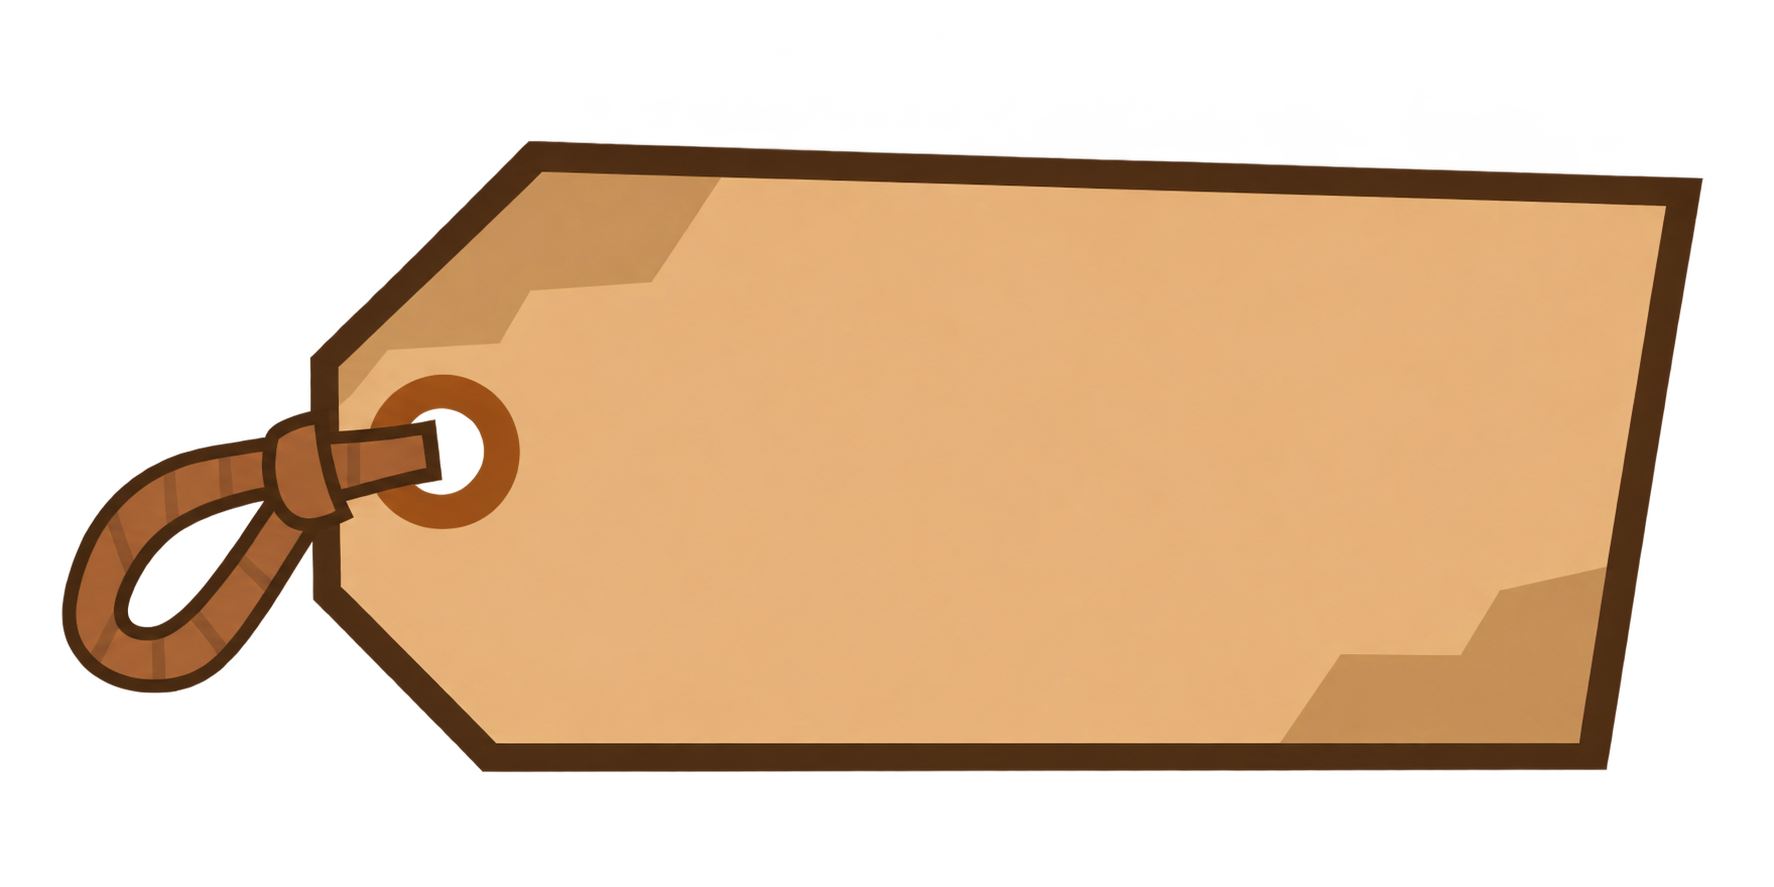
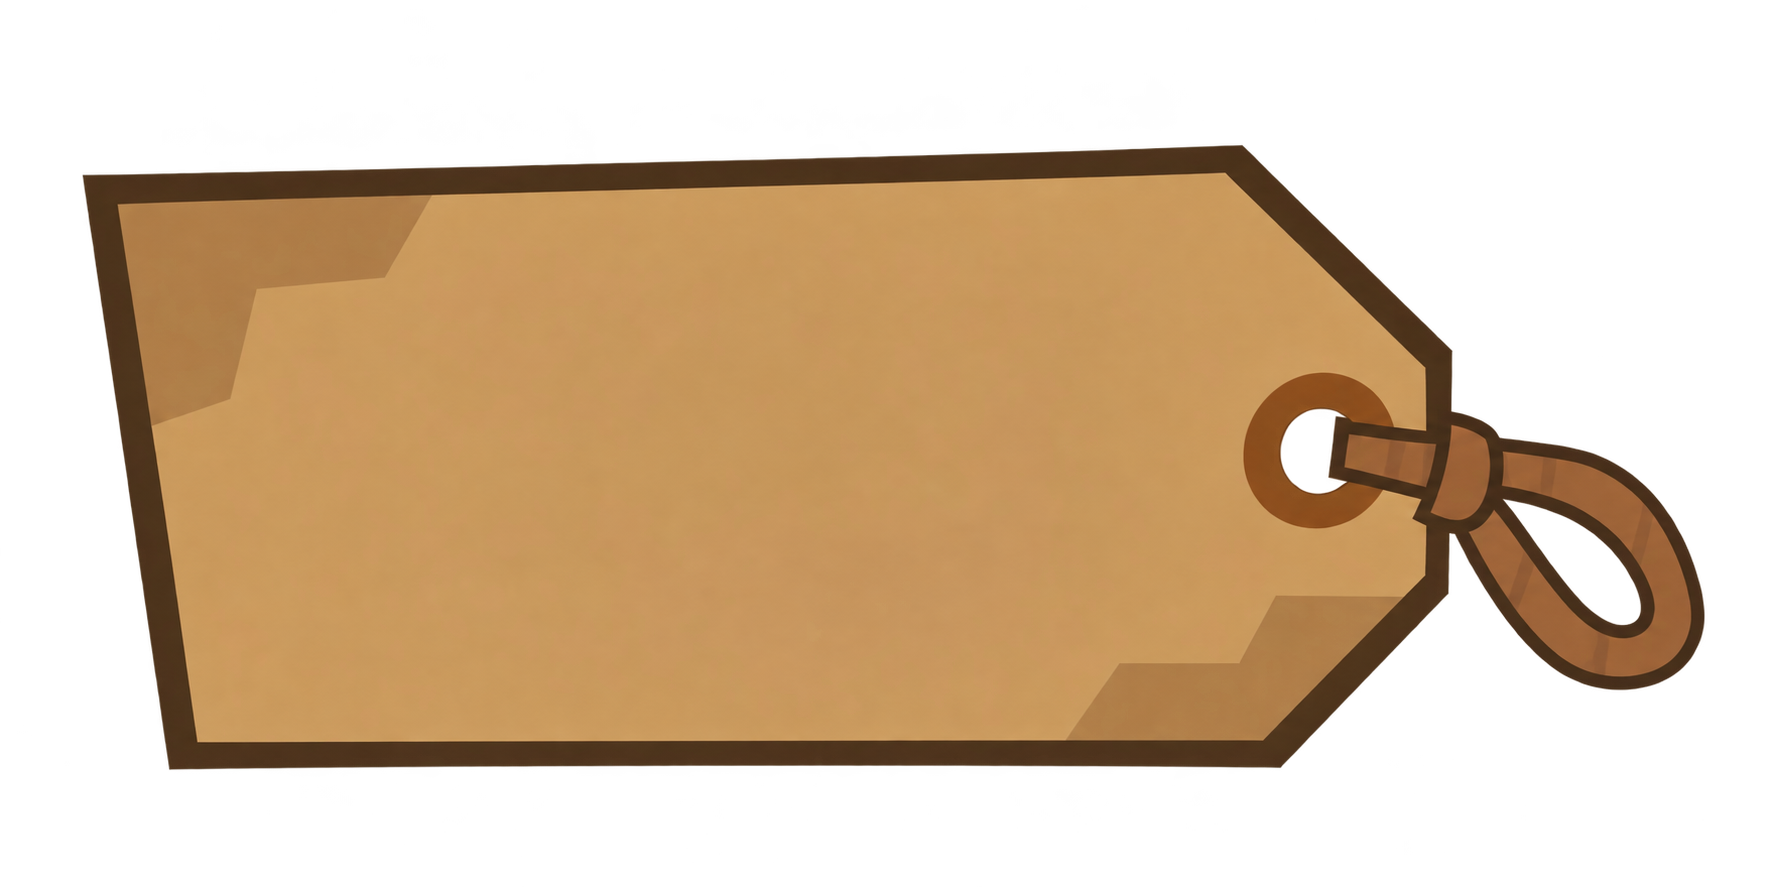
bug fixes

diff --git a/src/app/admin/IslandStage.tsx b/src/app/admin/IslandStage.tsx
@@ -10,7 +10,7 @@
 import { useCallback, useEffect, useMemo, useRef, useState } from "react";
 import Image from "next/image";
 import type { AdminPlayer } from "@/lib/types";
-import { displayName } from "@/lib/names";
+import { islandName } from "./islandNames";
 import { copyElementAsImage, downloadElementAsPng } from "@/lib/copy-image";
 import Avatar from "@/components/Avatar";
 import FinalSequenceOverlay from "./FinalSequenceOverlay";
@@ -129,7 +129,7 @@ export default function IslandStage({ players, outIds, atRiskIds, safeIds, lates
     participants: onIsland.map((p) => p.id).filter((id) => seatedSet.has(id)),
     atRisk: atRiskIds,
     safe,
-    nameOf: (id) => (byId[id] ? displayName(byId[id]) : "A removed player"),
+    nameOf: (id) => (byId[id] ? islandName(byId[id]) : "A removed player"),
   };
   const giveLatest = useRef(give);
   giveLatest.current = give;
@@ -249,9 +249,9 @@ export default function IslandStage({ players, outIds, atRiskIds, safeIds, lates
               onMouseEnter={() => !capturing && !running && setHover(id)} onFocus={() => !running && setHover(id)}
               onMouseLeave={() => setHover((h) => (h === id ? null : h))} onBlur={() => setHover((h) => (h === id ? null : h))}
               onClick={() => toggle(id)} aria-pressed={isSafe} aria-disabled={out || running}
-              aria-label={`${displayName(p)}${out ? ", out" : isSafe ? ", safe" : ""}${out ? "" : isSafe ? ". Click to take back the marshmallow" : ". Click to toss a marshmallow"}`}>
-              <span className="stage-name">{displayName(p)}</span>
-              <Avatar src={p.discord_avatar_url} name={displayName(p)} size={128} />
+              aria-label={`${islandName(p)}${out ? ", out" : isSafe ? ", safe" : ""}${out ? "" : isSafe ? ". Click to take back the marshmallow" : ". Click to toss a marshmallow"}`}>
+              <span className="stage-name">{islandName(p)}</span>
+              <Avatar src={p.discord_avatar_url} name={islandName(p)} size={128} />
               {isSafe && (
                 <Image src={MARSHMALLOW} alt="" width={64} height={68}
                   className={`stage-mallow${tossing.has(id) ? " toss" : ""}`}

diff --git a/src/app/admin/IslandTab.tsx b/src/app/admin/IslandTab.tsx
@@ -7,7 +7,7 @@
 import { useMemo, useRef, useState } from "react";
 import { useRouter } from "next/navigation";
 import type { AdminPlayer, IslandState } from "@/lib/types";
-import { displayName } from "@/lib/names";
+import { islandName } from "./islandNames";
 import { islandMessage } from "@/lib/candy";
 import Avatar from "@/components/Avatar";
 import IslandStage from "./IslandStage";
@@ -44,7 +44,7 @@ export default function IslandTab({ players, island, setFlash }: {
   const latest = island.rounds[island.rounds.length - 1];
   const n = Number(remaining);
   const nOk = Number.isInteger(n) && n >= 1 && n < onIsland.length;
-  const name = (id: string) => (byId[id] ? displayName(byId[id]) : "Removed player");
+  const name = (id: string) => (byId[id] ? islandName(byId[id]) : "Removed player");
 
   async function run(task: () => Promise<IslandActionResult>, onOk?: (res: IslandActionResult) => void) {
     if (busyRef.current) return;
@@ -156,13 +156,13 @@ export default function IslandTab({ players, island, setFlash }: {
           <h3 id="isl-roster-h">Islanders</h3>
           <ul>
             {/* Still on the island first (A-Z), then the out players in the order they went out. */}
-            {[...active].sort((a, b) => (outRound[a.id] ?? 0) - (outRound[b.id] ?? 0) || displayName(a).localeCompare(displayName(b)))
+            {[...active].sort((a, b) => (outRound[a.id] ?? 0) - (outRound[b.id] ?? 0) || islandName(a).localeCompare(islandName(b)))
               .map((p) => {
                 const out = outRound[p.id];
                 return (
                   <li key={p.id} className={out !== undefined ? "out" : undefined}>
-                    <Avatar src={p.discord_avatar_url} name={displayName(p)} size={30} />
-                    <span className="isl-name">{displayName(p)}</span>
+                    <Avatar src={p.discord_avatar_url} name={islandName(p)} size={30} />
+                    <span className="isl-name">{islandName(p)}</span>
                     {out !== undefined ? <span className="isl-out-tag">Out R{out}</span> : <span className="isl-in-tag">On island</span>}
                   </li>
                 );

diff --git a/src/app/admin/islandNames.ts b/src/app/admin/islandNames.ts
@@ -1,0 +1,15 @@
+import type { Player } from "@/lib/types";
+import { displayName } from "@/lib/names";
+
+/**
+ * Names shown on Candy Island instead of a player's Discord display name.
+ * Key: their Discord display name exactly as it is now. Value: the name to show.
+ */
+export const ISLAND_NAMES: Record<string, string> = {
+  "*": "Nathan",
+};
+
+export function islandName(p: Player): string {
+  const name = displayName(p);
+  return ISLAND_NAMES[name] ?? ISLAND_NAMES[p.discord_display_name ?? ""] ?? name;
+}
